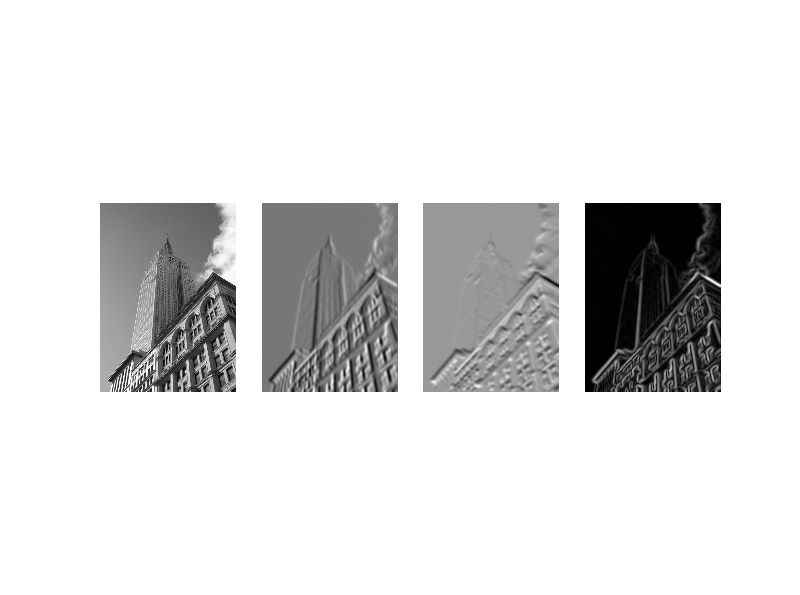
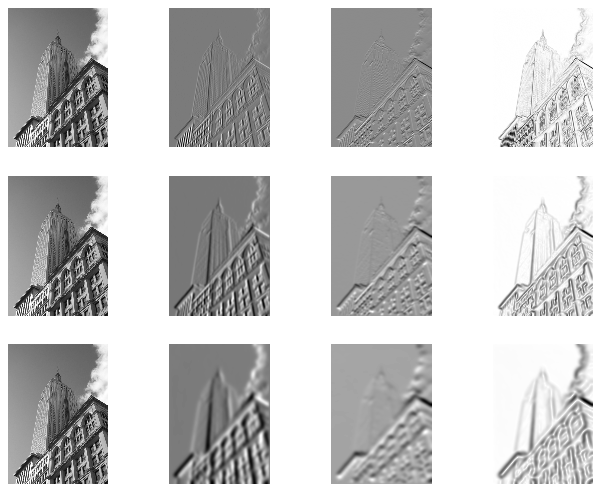
add new content in ch01

diff --git a/chapter1.md b/chapter1.md
@@ -614,43 +614,67 @@ show()
 
 ![ch01_fig1-10_scipy_sobel](assets/images/figures/ch01/ch01_fig1-10_scipy_sobel.png)
 
-再看一个高斯差分的例子，运行下面代码可得原书P20页对图像进行高斯差分示例：
+再看一个高斯差分的例子，运行下面代码可得原书P020 Fig1-11页对图像进行高斯差分示例：
 
 ```python
+ # -*- coding: utf-8 -*-
 from PIL import Image
 from pylab import *
 from scipy.ndimage import filters
 import numpy
 
+# 添加中文字体支持
+#from matplotlib.font_manager import FontProperties
+#font = FontProperties(fname=r"c:\windows\fonts\SimSun.ttc", size=14)
+
+def imx(im, sigma):
+    imgx = zeros(im.shape)
+    filters.gaussian_filter(im, sigma, (0, 1), imgx)
+    return imgx
+
+
+def imy(im, sigma):
+    imgy = zeros(im.shape)
+    filters.gaussian_filter(im, sigma, (1, 0), imgy)
+    return imgy
+
+
+def mag(im, sigma):
+    # there's also gaussian_gradient_magnitude()
+    #mag = numpy.sqrt(imgx**2 + imgy**2)
+    imgmag = 255 - numpy.sqrt(imgx ** 2 + imgy ** 2)
+    return imgmag
+
+
 im = array(Image.open('../data/empire.jpg').convert('L'))
+figure()
 gray()
-subplot(1, 4, 1)
-axis('off')
-imshow(im)
 
-sigma = 5
+sigma = [2, 5, 10]
 
-imx = zeros(im.shape)
-filters.gaussian_filter(im, sigma, (0, 1), imx)
-subplot(1, 4, 2)
-axis('off')
-imshow(imx)
-
-imy = zeros(im.shape)
-filters.gaussian_filter(im, sigma, (1, 0), imy)
-subplot(1, 4, 3)
-axis('off')
-imshow(imy)
-
-# there's also gaussian_gradient_magnitude()
-mag = numpy.sqrt(imx**2 + imy**2)
-subplot(1, 4, 4)
-axis('off')
-imshow(mag)
+for i in  sigma:
+    subplot(3, 4, 4*(sigma.index(i))+1)
+    axis('off')
+    imshow(im)
+    imgx=imx(im, i)
+    subplot(3, 4, 4*(sigma.index(i))+2)
+    axis('off')
+    imshow(imgx)
+    imgy=imy(im, i)
+    subplot(3, 4, 4*(sigma.index(i))+3)
+    axis('off')
+    imshow(imgy)
+    imgmag=mag(im, i)
+    subplot(3, 4, 4*(sigma.index(i))+4)
+    axis('off')
+    imshow(imgmag)
 
 show()
 ```
 ![ch01_fig1-11_scipy_gauss_deriv](assets/images/figures/ch01/ch01_fig1-11_scipy_gauss_deriv.png)
+注意运行的结果在摆放位置时与原书P020 Fig1-11结果稍微不同。上面代码中，第一行标准差为2，列分别表示的是x、y和mag,第二行和第三行依次类推。
+
+<h3 id="sec-1-4-3">1.4.3 形态学-物体计数</h3>
 
 欢迎学习《Ruby on Rails 教程》。本书的目标是成为对“如果想学习使用 Ruby on Rails 进行 Web 开发，我应该从哪儿开始？”这一问题的最好答案。学习完本书的内容之后，你将具备使用 Rails 进行开发和部署 Web 程序的技能。同时你还能够通过一些进阶的书籍、博客和视频教程等活跃的 Rails 教学体系继续深造。本书基于 Rails 3，这里的知识代表着 Web 开发的发展方向。（《Ruby on Rails 教程》的最新版本可以从[本书的网站](http://railstutorial.org/)上获取。）
 
